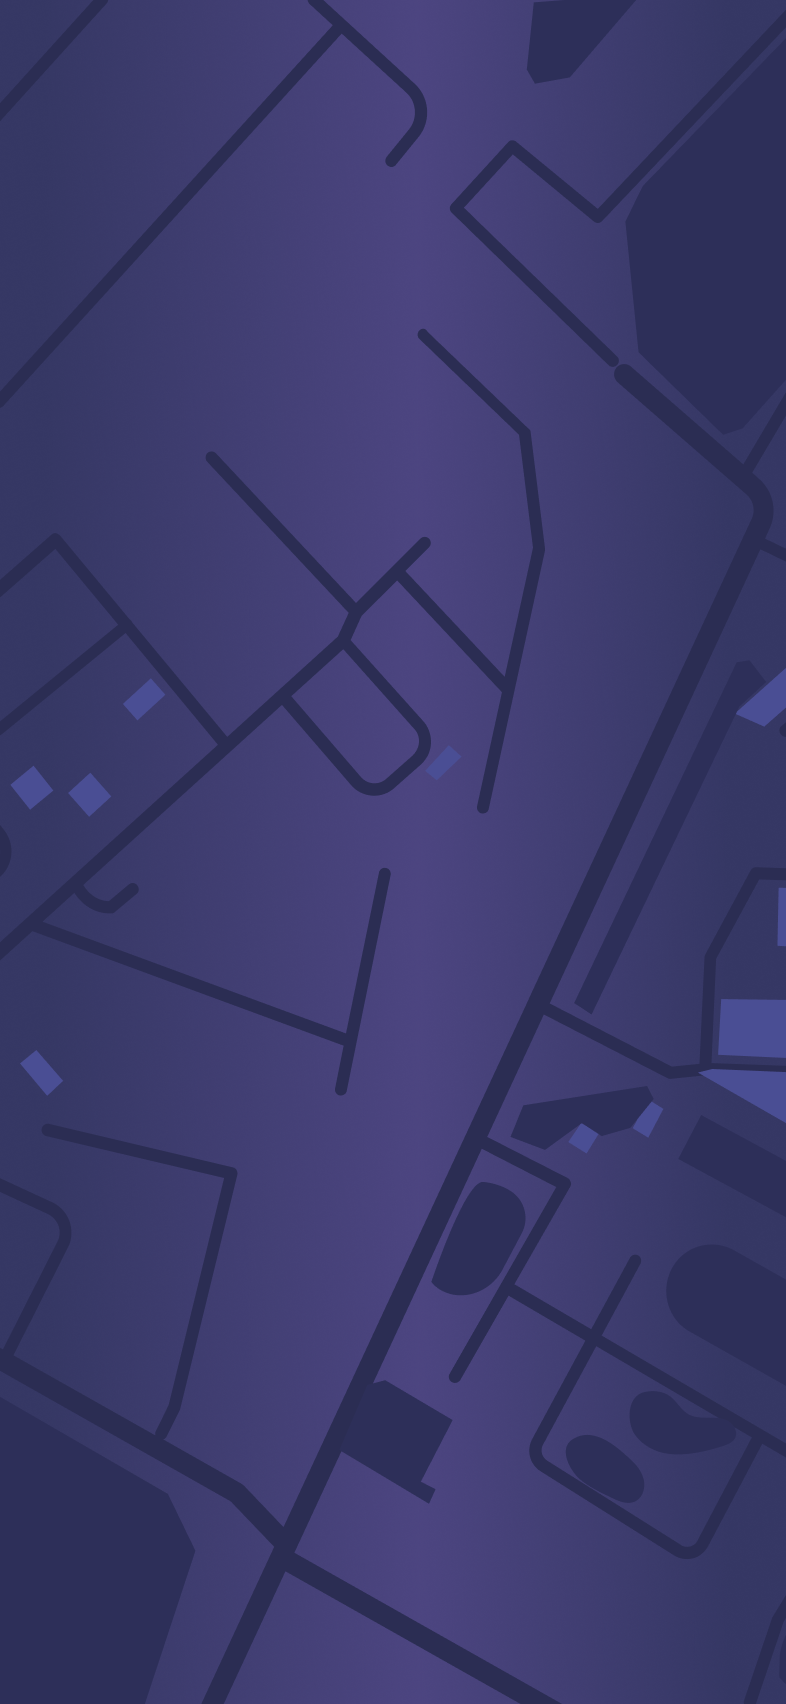
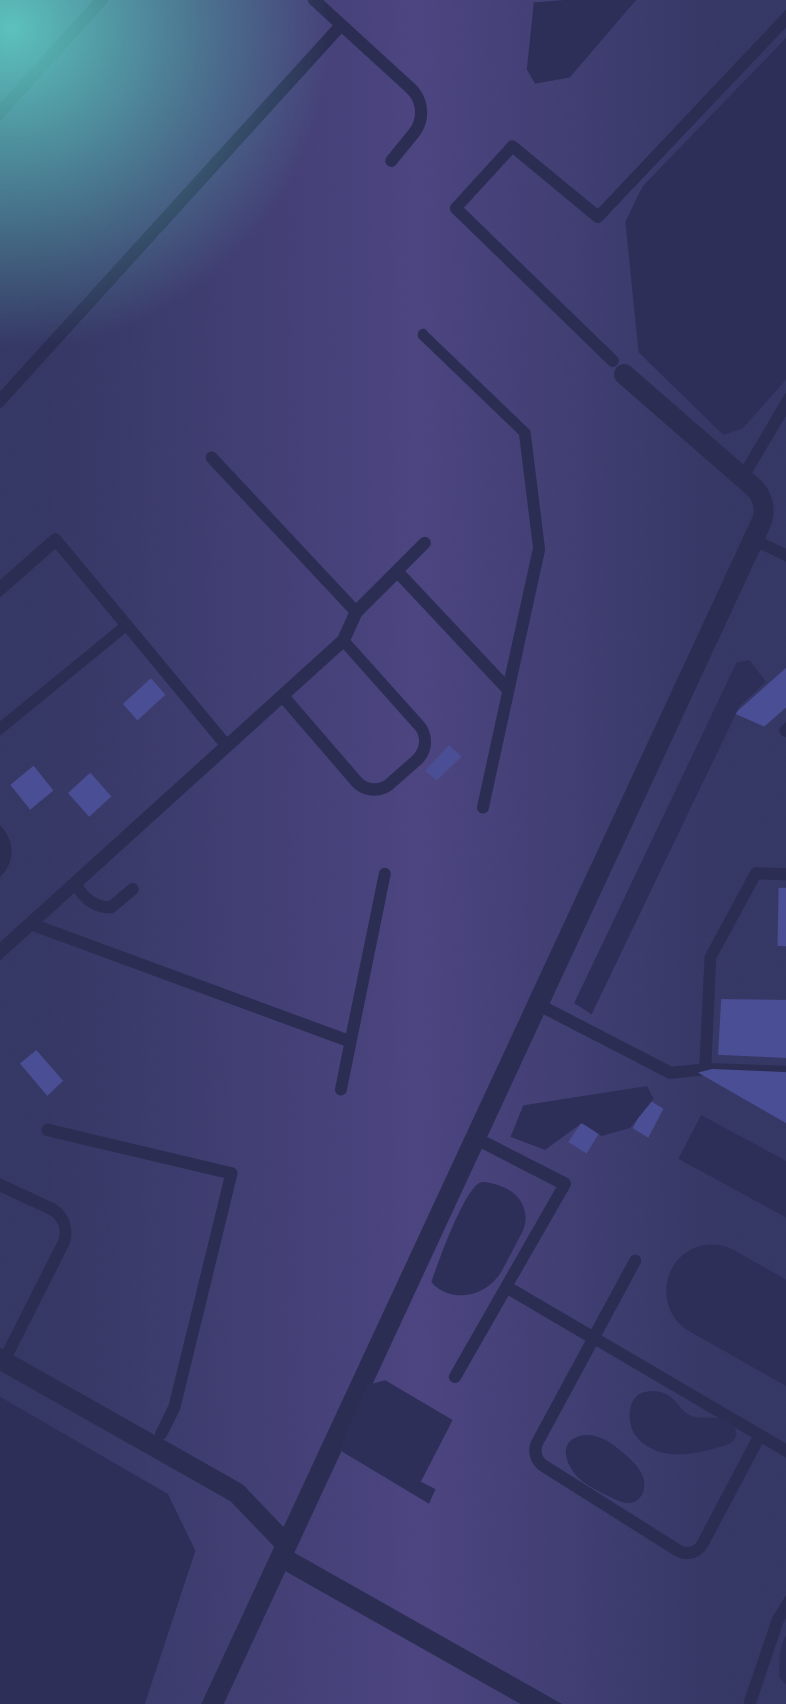
background and menu
BG and menu items added

Changed region(s): [[0.0, 0.0, 0.3664, 0.1866]]

diff --git a/css/style.css b/css/style.css
@@ -1,20 +1,83 @@
-/*
-		iframe {
-			position: fixed;
-			top: 50%;
-			left: 50%;
-			transform: translate(-50%, -50%);
-			width: 393px;
-			height: 852px;
-			border: none;
-		}
-*/
+
+/* @media (max-width: 390px) {
+all css happens here}*/
+
 
 @media (max-width: 390px) {
-/* all css happens here*/
 body {
-    background-color: black;
+    background-image: url(/images/map.png);
+    background-size: 393px 852px;
+    background-repeat: no-repeat;
 }
+
+/* Top Nav */
+.topnav {
+    display: flex;
+    justify-content: space-between;
+    align-items: center;
+}
+
+/* Hamburger */
+.hamburger {
+    position: relative;
+    display: block;
+    float: right;
+    width: 50px;
+    appearance: none;
+    cursor: pointer;
+    padding-top: 25px;
+    background: none;
+    outline: none;
+    border: none;
+  }
+  
+  .hamburger .bar, .hamburger:after, .hamburger:before {
+    content: '';
+    display: block;
+  width: 100%;
+  height: 2px;
+  background-color: #ffffff;
+  margin: 6px 0px;
+  transition: 0.4s;
+  }
+  
+  .hamburger.is-active:before {
+    transform: rotate(-45deg) translate(-5px, 5px);
+  }
+  .hamburger.is-active:after {
+    transform: rotate(45deg) translate(-5px, -6px);
+  }
+  
+  .hamburger.is-active .bar {
+    opacity: 0;
+  }
+  
+  .mobile-nav {
+    z-index: 98;
+    display: block;
+    position: fixed;
+    top: 78px;
+    left: 100%;
+    width: 100%;
+    min-height: 100vh;
+    background-color: #ffffff;
+    padding-top: 120px;
+    transition: 0.4s;
+  }
+  
+  .mobile-nav.is-active {
+    left: 0%;
+  }
+  
+   .mobile-nav a {
+      display: block;
+      width: 100%;
+      max-width: 200px;
+      margin: 0 auto 16px;
+      text-align: center;
+      padding: 12px 12px;
+      background-color: #ffffff;
+    }
 
 
 }

diff --git a/index.html b/index.html
@@ -1,17 +1,36 @@
 <!DOCTYPE html>
 <html lang="en">
-  <head>
+
+<head>
     <meta charset="UTF-8">
     <meta name="viewport" content="width=device-width, initial-scale=1.0">
     <meta http-equiv="X-UA-Compatible" content="ie=edge">
     <title>My Website</title>
     <link rel="stylesheet" href="/css/style.css">
     <link rel="icon" href="./favicon.ico" type="image/x-icon">
-  </head>
-  <body>
+</head>
+<!-- Top Nav -->
+<nav>
+    <div class="topnav">
+        <div>
+            <img src="/images/logo.png" height="53px" width="53px">
+        </div>
+
+        <button class="hamburger">
+            <div class="bar"></div>
+        </button>
+        <nav class="mobile-nav">
+            <a href="#">XX</a>
+            <a href="#">XX</a>
+            <a href="#">XX</a>
+    </div>
+</nav>
+
+<body>
     <main>
-        <h1>Welcome to my Website</h1>  
+        <h1>Welcome to my Website</h1>
     </main>
-	<script src="index.js"></script>
-  </body>
+    <script src="index.js"></script>
+</body>
+
 </html>
